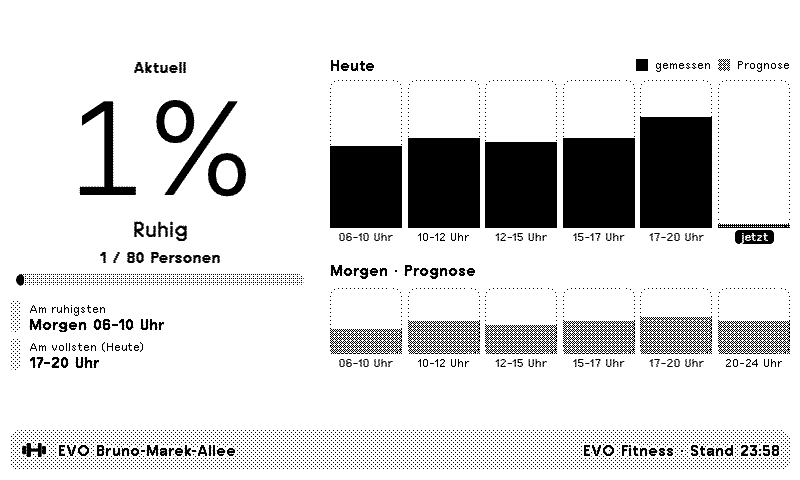
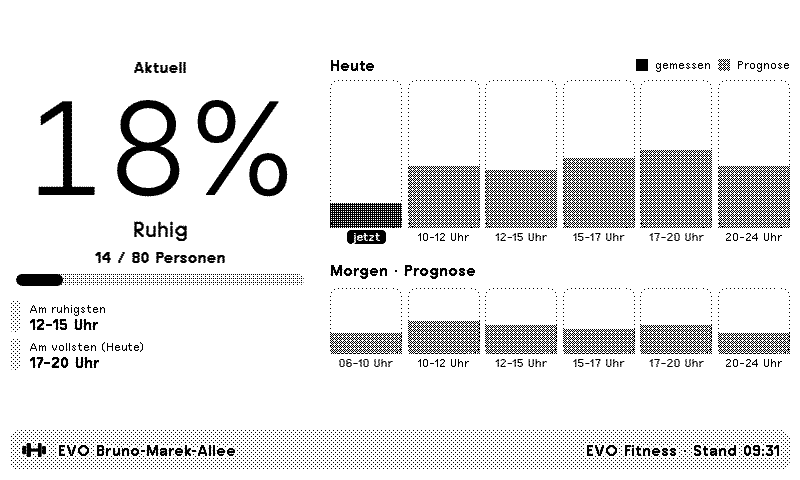
Update README, images and settings

diff --git a/README.md b/README.md
@@ -20,6 +20,7 @@ To show several gyms on one screen, add the plug-in once per gym and combine the
 ## Limitations
 
 - **German gyms show live occupancy only.** EVO's time-slot data for all German gyms is currently unusable (values of several thousand percent), so the charts are hidden. The plug-in detects this per gym, and the charts appear on their own once EVO's data is sane again.
+- **German percentages can exceed 100%.** EVO reports a capacity of 35 places for every German gym, which is almost certainly not the real size, so the live percentage is based on that figure (74 people show as 211%). The headcount next to it is correct. Once EVO publishes real capacities, the percentage is right without a plug-in update.
 - The chart bars carry no numbers. EVO's figures for finished time slots run well above the live count for the same period (a slot reported as 61% had about 17 of 80 people counted live), so the bars only show which slots are busier than others. Each slot sits in an outlined box whose full height is 100%. The running slot is drawn at EVO's figure so far, which is close to the live count and therefore usually lower than its neighbours.
 - The data comes from an undocumented endpoint and may change without notice.
 
